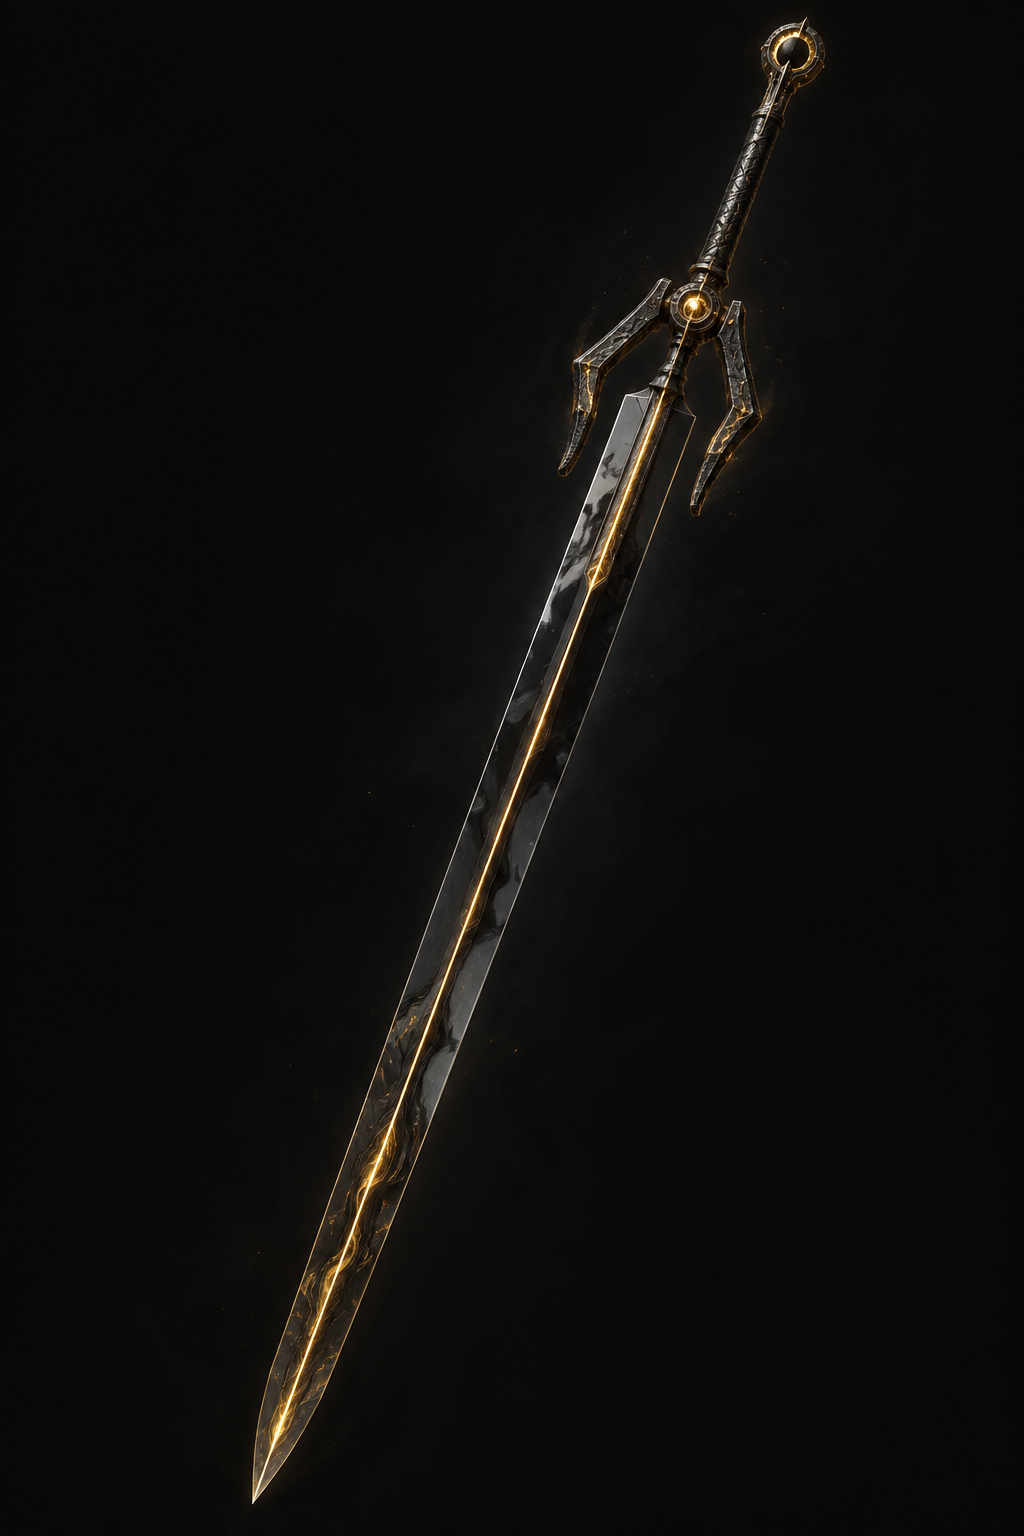
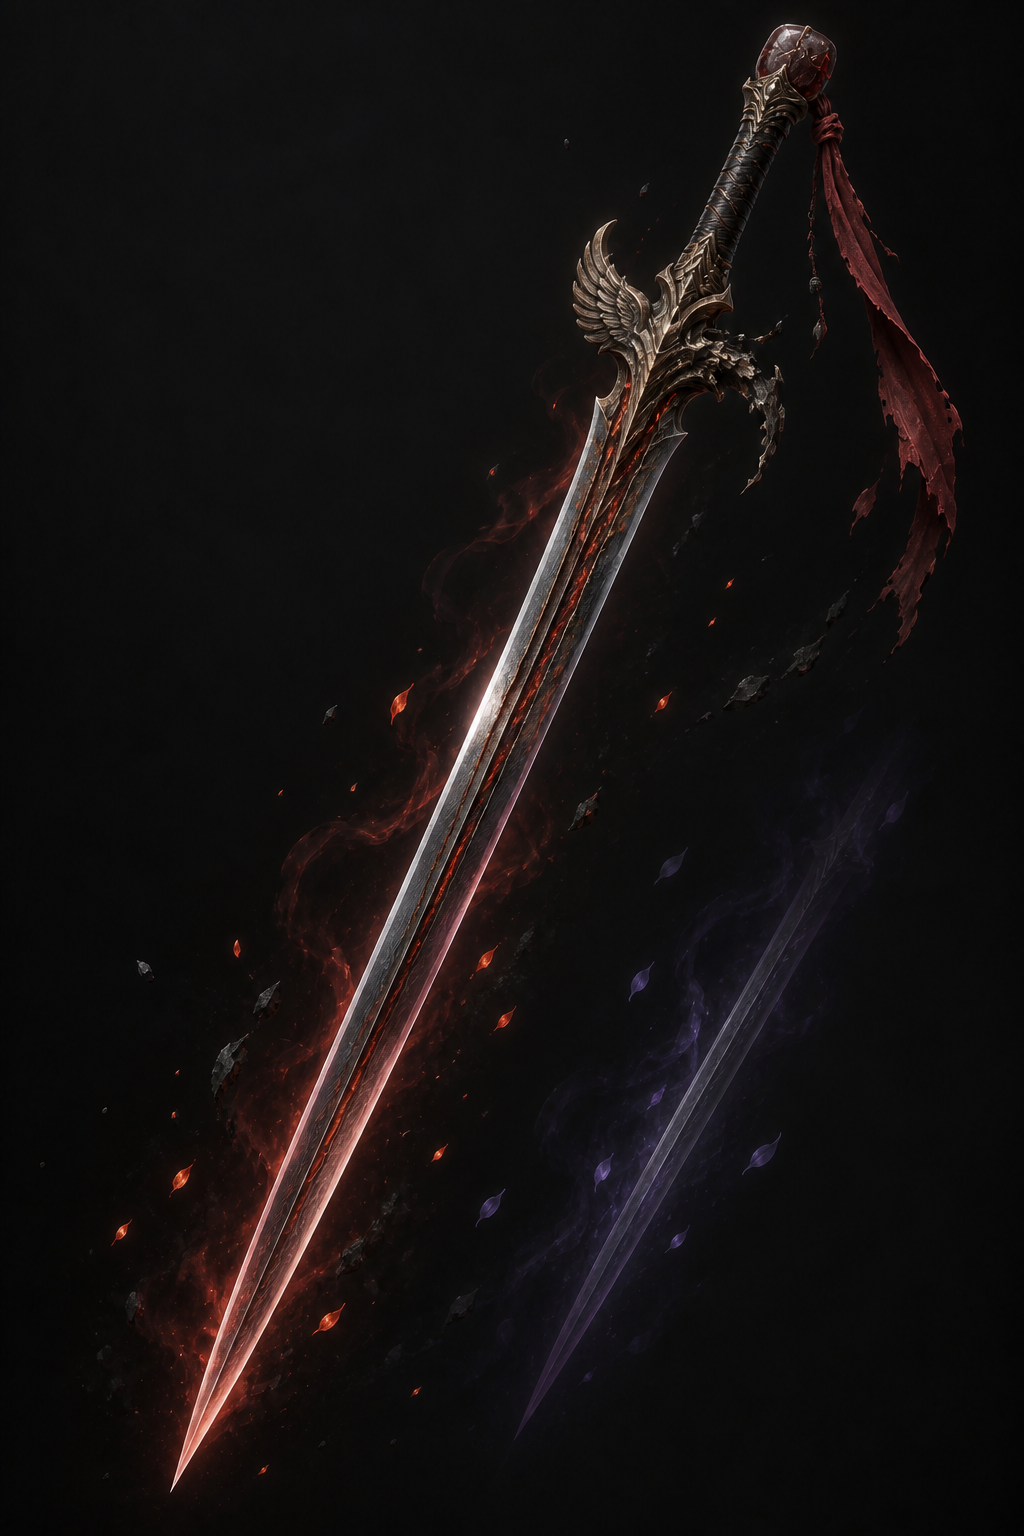
Replace Ganjang sword artwork

diff --git a/js/app.js b/js/app.js
@@ -723,7 +723,7 @@
   ];
   // GitHub Pages may cache files with the same path for a while. Keep the
   // artwork revision here so an art replacement is visible immediately.
-  const SWORD_ART_VERSION = '20260911-yeokmong-cloth-v5';
+  const SWORD_ART_VERSION = '20260911-ganjang-v6';
 
   // A newly added sword can ship without artwork yet -- SWORD_ART_FILES[i]
   // stays an empty string until art is ready. Clearing the <img> src (not
